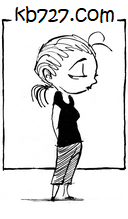
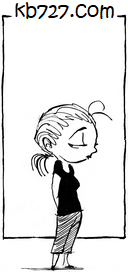
pixelme

Changed region(s): [[0.0, 0.0, 1.0, 1.0], [0.8438, 0.2192, 0.875, 0.2466]]

diff --git a/css/main.css b/css/main.css
@@ -159,7 +159,7 @@ body {
 
 .pixelMe {
   visibility: hidden;
-  height: 218px;
+  height: 272px;
   width: 128px;
   margin: 0 auto;
   background: url(../img/pixelme.png);
